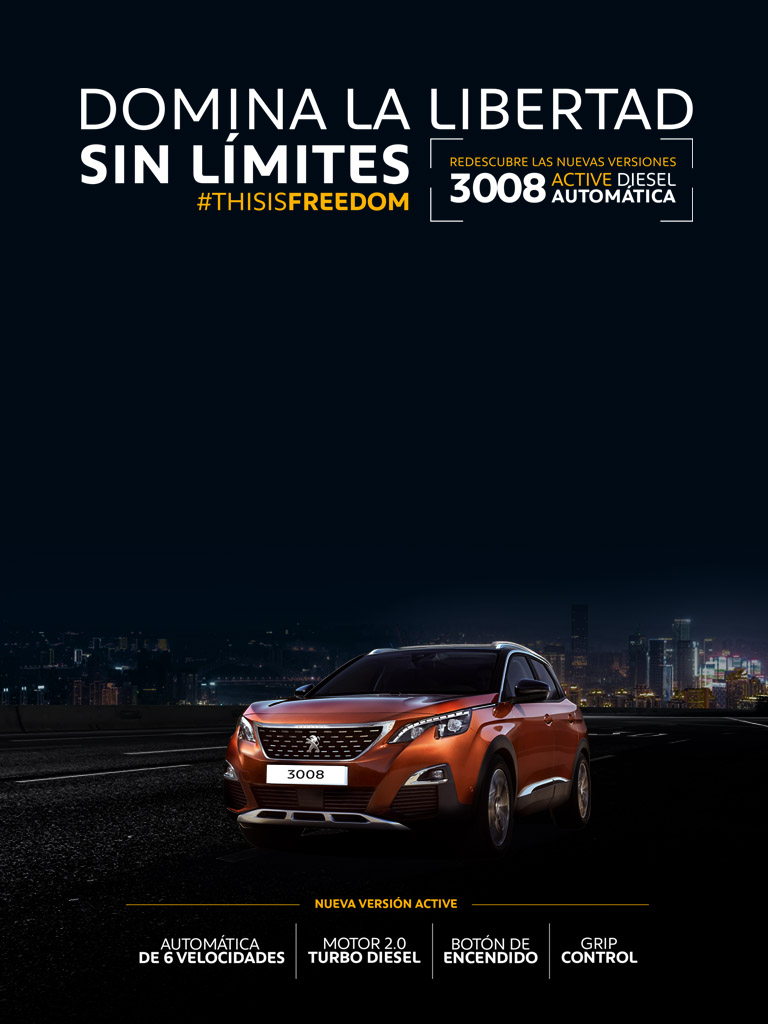
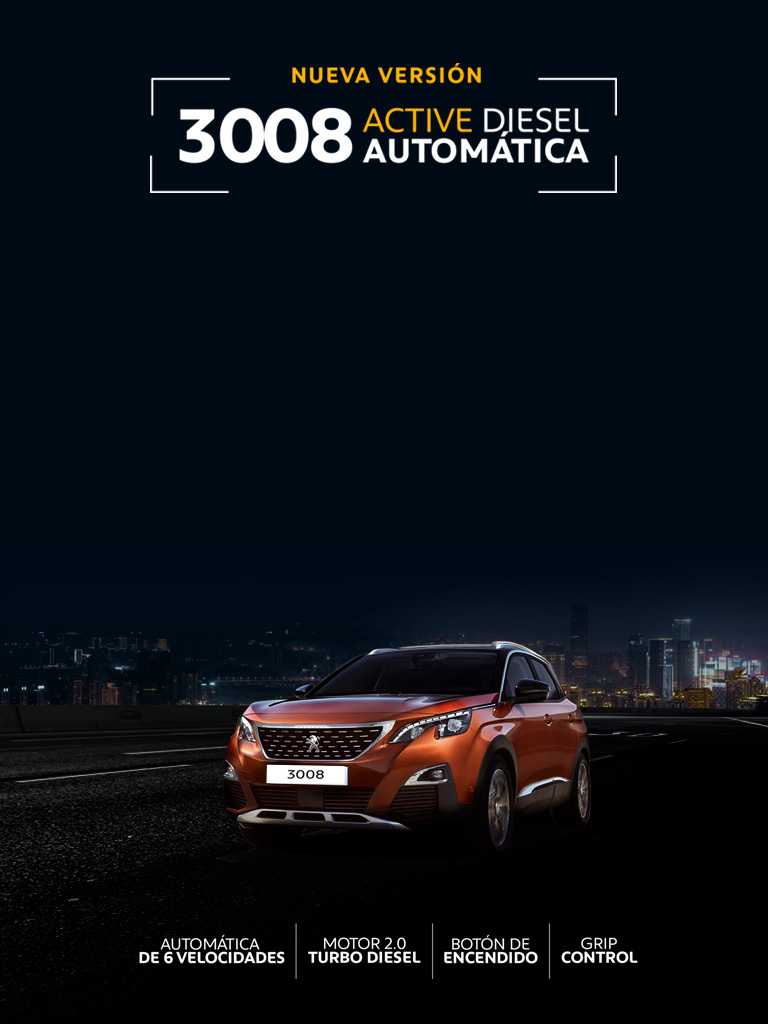
[3008 NV] New landing pages

Changed region(s): [[0.0938, 0.0625, 0.9062, 0.2188], [0.4062, 0.875, 0.5938, 0.9062]]

diff --git a/public/stylesheets/3008-gtline/landing.css b/public/stylesheets/3008-gtline/landing.css
@@ -25,7 +25,7 @@ input[type="submit"] {
   box-shadow: 0 10px 20px rgba(0,0,0,0.19), 0 6px 6px rgba(0,0,0,0.23);
   border-radius: 4px;
   position: absolute;
-  top: 180px;
+  top: 60px;
   right: 90px;
 }
 
@@ -75,7 +75,7 @@ input[type="submit"] {
   #crmWebToEntityForm{
     background-color: rgba(255, 255, 255, 0.05);
     width: 66% !important;
-    top: 15%;
+    top: 18%;
     left: 50% !important;
     padding: 4px !important;
     margin-left: -33.5%;
@@ -180,7 +180,7 @@ input[type="submit"] {
 
   #crmWebToEntityForm{
     width: 40% !important;
-    top: 32px;
+    top: 16px;
     right: 32px !important;
     margin: 4px;
     padding: 8px;
@@ -293,13 +293,13 @@ input[type="submit"] {
   #crmWebToEntityForm{
     width: 35% !important;
     left: 60% !important;
-    top: 18% !important;
+    top: 3% !important;
     box-shadow: 0 10px 20px rgba(0,0,0,0.19), 0 6px 6px rgba(0,0,0,0.1) !important;
     background-color: rgba(255, 255, 255, 0.05);
   }
 
   .pg-landing-form-box-title{
-    font-size: 16px !important;
+    font-size: 12px !important;
     font-weight: normal !important;
     padding-bottom: 0px !important;
   }
